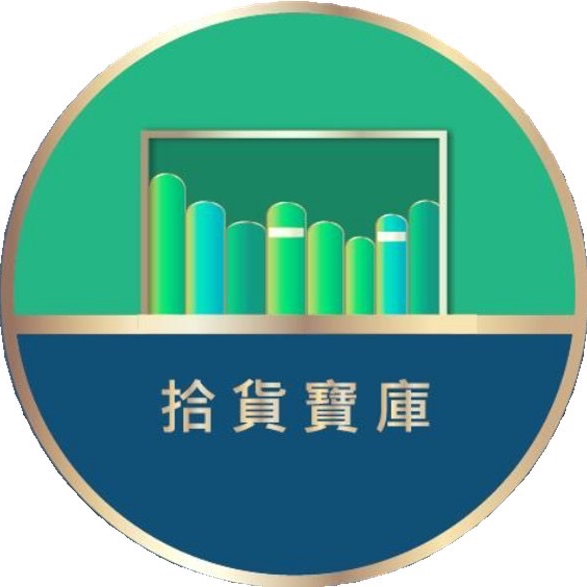
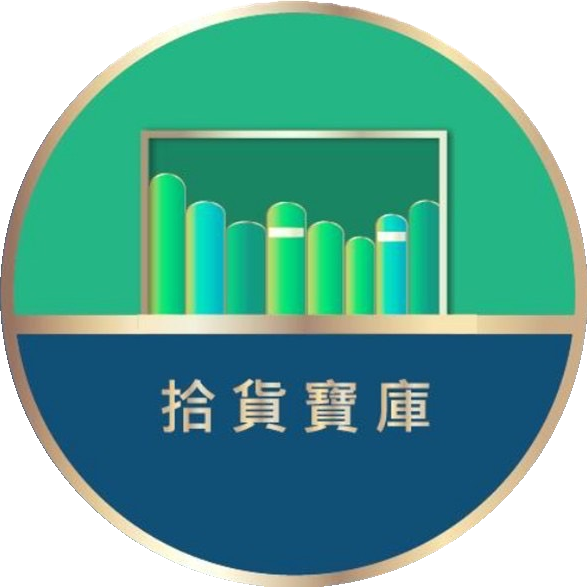
照片去背更新

diff --git a/拾貨寶庫/home.html b/拾貨寶庫/home.html
@@ -20,7 +20,7 @@
     <div class="content">
         <div class="header">
             <div class="left">
-                <a class="picture" href="homepage.html"><img src="https://github.com/YehIngrid/sample/blob/main/%E6%8B%BE%E8%B2%A8%E5%AF%B6%E5%BA%AB.jpg?raw=true" alt="拾貨寶庫Logo"></a>
+                <a class="picture" href="homepage.html"><img src="https://github.com/YehIngrid/sample/blob/temp/%E6%8B%BE%E8%B2%A8%E5%AF%B6%E5%BA%AB_%E5%9C%93%E5%BD%A2.png?raw=true" alt="拾貨寶庫Logo"></a>
                 <a class="h1" href="homepage.html">拾貨寶庫</a>
             </div>
             <img class="bg" src="https://github.com/YehIngrid/sample/blob/main/%E6%8B%BE%E8%B2%A8%E5%AF%B6%E5%BA%AB/backgroundimg.jpg?raw=true" alt="">

diff --git a/拾貨寶庫/home.css b/拾貨寶庫/home.css
@@ -67,7 +67,7 @@ table {
     height: 49px;
     width: 47px;
     padding-right: 10px;
-    z-index: 100;
+    border-radius: 50%;
 }
 .header{
     display: flex;
@@ -94,6 +94,7 @@ table {
     justify-content: center;
     align-items: center;
     padding-left: 50px;
+    z-index: 100;
 }
 
 
